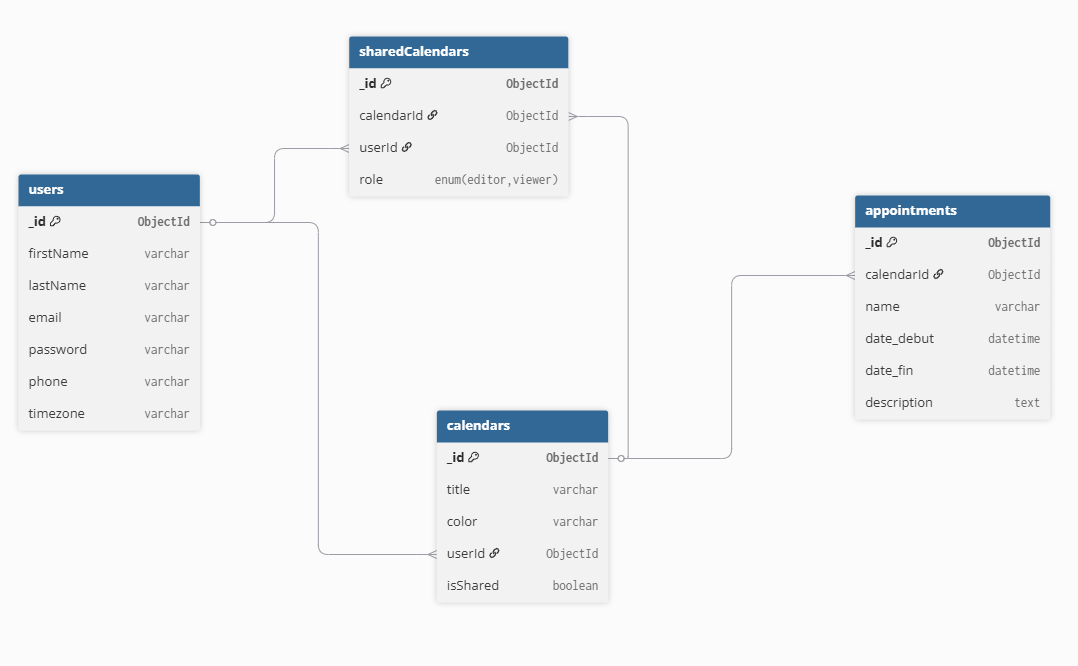
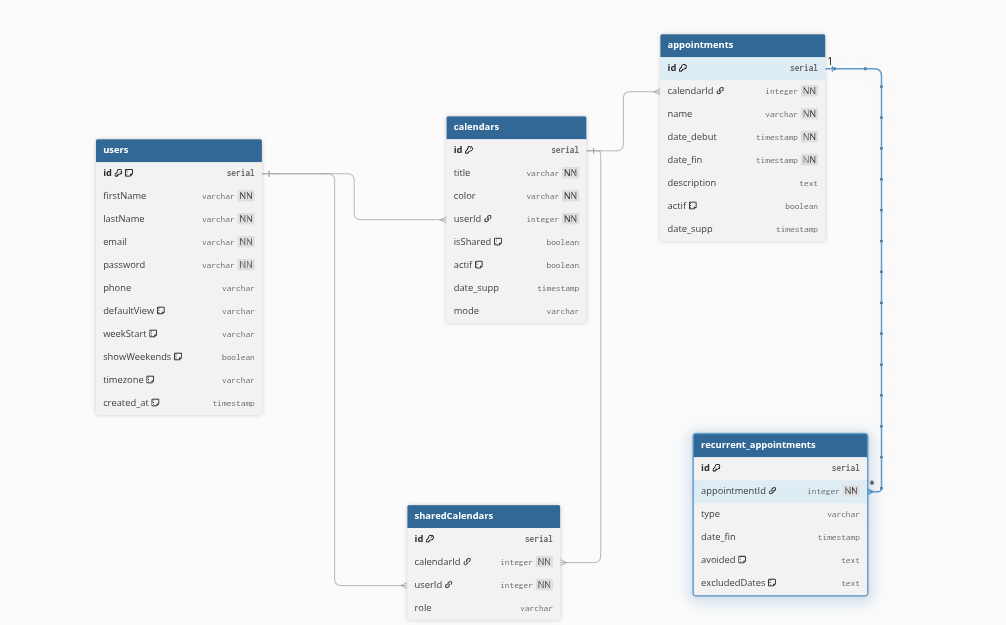
presentation

diff --git a/src/public/css/agenda-style.css b/src/public/css/agenda-style.css
@@ -1498,40 +1498,40 @@ body {
   }
   .logo-text {
     display: none; /* cacher le texte du logo */
-  }/* Navbar principale */
-.navbar {
+  } /* Navbar principale */
+  .navbar {
     height: 45px;
     display: flex;
     align-items: center; /* centre verticalement */
     justify-content: space-between; /* espace entre gauche et droite */
     padding: 0 10px;
     position: relative;
-}
+  }
 
-/* Conteneur de gauche (logo + boutons éventuels) */
-.left-area {
+  /* Conteneur de gauche (logo + boutons éventuels) */
+  .left-area {
     display: flex;
     align-items: center;
     gap: 10px; /* espace entre logo et autres éléments */
-}
+  }
 
-/* Logo */
-.logo {
+  /* Logo */
+  .logo {
     display: flex;
     align-items: center;
     gap: 8px; /* espace entre SVG et texte */
-}
+  }
 
-/* Zone des liens et boutons à droite */
-.nav-links {
+  /* Zone des liens et boutons à droite */
+  .nav-links {
     display: flex;
     align-items: center;
     gap: 8px;
-}
+  }
 
-/* Boutons du type sidebarToggle et mobileSearchBtn */
-#sidebarToggle,
-#mobileSearchBtn {
+  /* Boutons du type sidebarToggle et mobileSearchBtn */
+  #sidebarToggle,
+  #mobileSearchBtn {
     font-size: 18px;
     color: white;
     background: none;
@@ -1540,11 +1540,11 @@ body {
     display: flex;
     align-items: center;
     justify-content: center;
-}
+  }
 
-/* Si tu veux que les boutons restent bien visibles même sur mobile */
-.nav-links button,
-.nav-links a {
+  /* Si tu veux que les boutons restent bien visibles même sur mobile */
+  .nav-links button,
+  .nav-links a {
     display: flex;
     align-items: center;
     justify-content: center;
@@ -1555,31 +1555,25 @@ body {
     text-decoration: none;
     cursor: pointer;
     margin-top: 55px; /* décale légèrement vers le bas */
-}
+  }
 
-
-/* Ajustement pour la zone recherche si besoin */
-.nav-search-area {
+  /* Ajustement pour la zone recherche si besoin */
+  .nav-search-area {
     display: flex;
     align-items: center;
     gap: 8px;
-}
-.left-area {
-
+  }
+  .left-area {
     display: none;
-}
+  }
 
-    .sidebar {
-        position: fixed;   /* flotte au-dessus du contenu */
-        top: 70px;         /* décale pour ne pas cacher la navbar */
-        left: 0;
-        height: calc(99vh - 45px); /* prend toute la hauteur sauf la navbar */
-        z-index: 1000;     /* au-dessus du reste */
-        background-color: #1f2937; 
-        box-shadow: 2px 0 12px rgba(0,0,0,0.5);
-    }
-
-    
-
-
+  .sidebar {
+    position: fixed; /* flotte au-dessus du contenu */
+    top: 70px; /* décale pour ne pas cacher la navbar */
+    left: 0;
+    height: calc(99vh - 45px); /* prend toute la hauteur sauf la navbar */
+    z-index: 1000; /* au-dessus du reste */
+    background-color: #1f2937;
+    box-shadow: 2px 0 12px rgba(0, 0, 0, 0.5);
+  }
 }

diff --git a/src/seed_rdv.js b/src/seed_rdv.js
@@ -43,7 +43,7 @@ async function addAppointmentsByEmail(email) {
       // Génération RDV
       const today = new Date();
 
-      for (let i = 0; i < 50; i++) {
+      for (let i = 0; i < 20; i++) {
         // Nombre de jours aléatoires autour d’aujourd’hui
         const offsetDays = Math.floor(Math.random() * 61) - 30;
 
